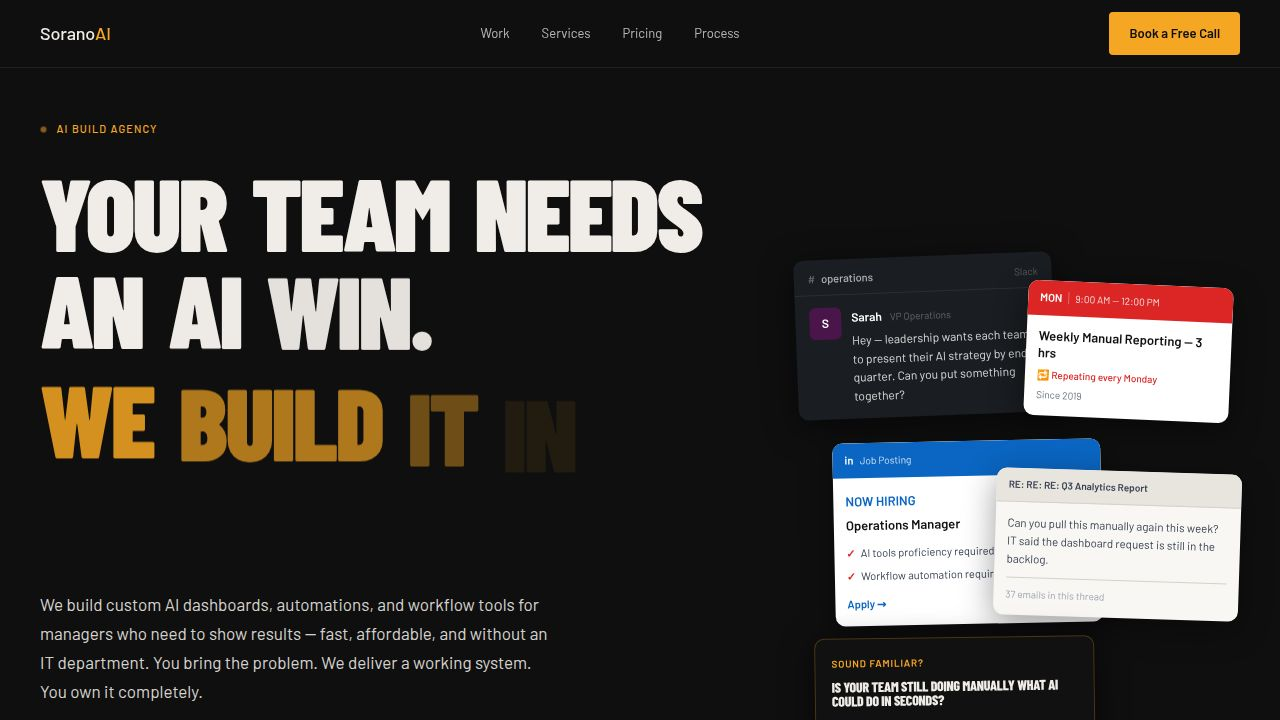
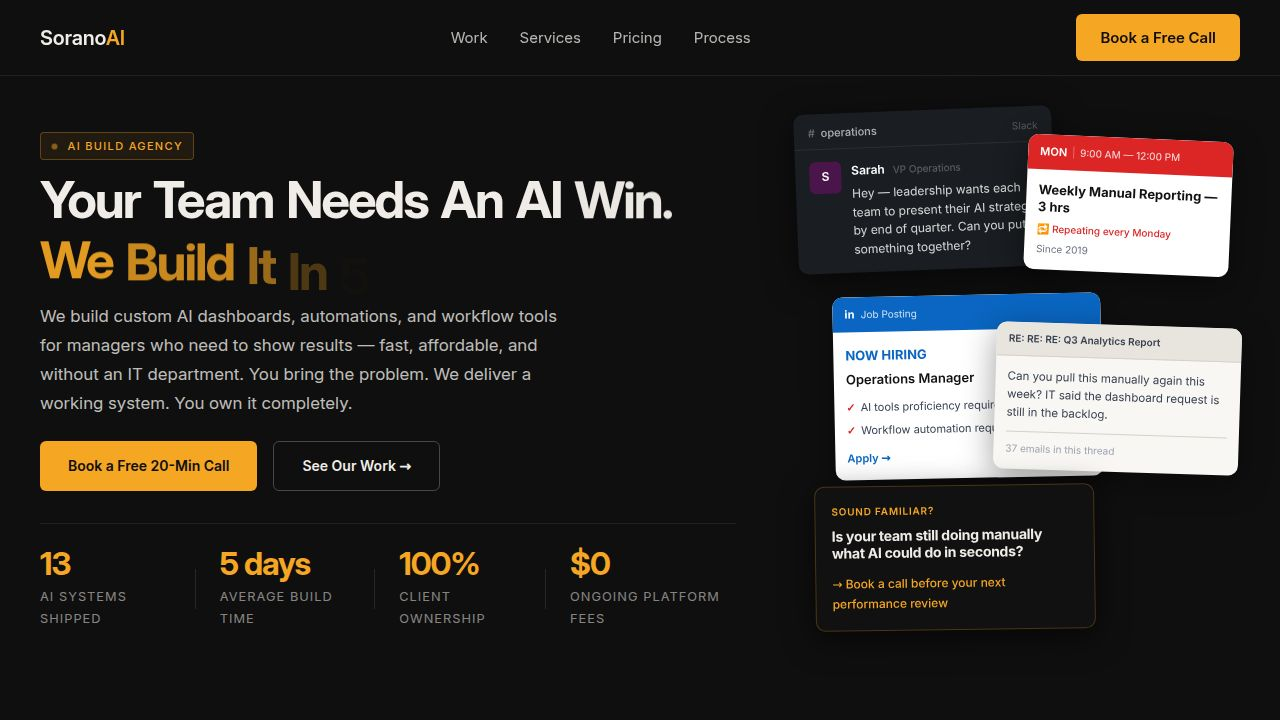
Improve website layout and visual appeal for a better user experience
Update CSS styles and layout properties in `index.css` and `LandingPage.tsx` to enhance visual design, adjust element sizing and spacing, and refine the overall user interface.

Replit-Commit-Author: Agent
Replit-Commit-Session-Id: de652645-57a0-4cd8-804e-505d59fe6991
Replit-Commit-Checkpoint-Type: full_checkpoint
Replit-Commit-Event-Id: 7cfe0205-f7c1-4278-8f01-84b549c9a138
Replit-Commit-Screenshot-Url: https://storage.googleapis.com/screenshot-production-us-central1/35139d9f-d9c6-44c9-8a53-76e9d92eb9ff/de652645-57a0-4cd8-804e-505d59fe6991/D1hxz7y
Replit-Helium-Checkpoint-Created: true

diff --git a/artifacts/sorano-ai/src/pages/LandingPage.tsx b/artifacts/sorano-ai/src/pages/LandingPage.tsx
@@ -36,7 +36,7 @@ function Nav() {
         backdropFilter: "blur(16px)",
         borderBottom: "1px solid rgba(255,255,255,0.08)",
         padding: "0 2.5rem",
-        height: "68px",
+        height: "76px",
         display: "flex",
         alignItems: "center",
         justifyContent: "space-between",
@@ -46,8 +46,8 @@ function Nav() {
         href="/"
         style={{
           fontFamily: "'Inter', sans-serif",
-          fontSize: "18px",
-          fontWeight: 500,
+          fontSize: "20px",
+          fontWeight: 600,
           textDecoration: "none",
           color: "#f0ede8",
           letterSpacing: "-0.01em",
@@ -70,7 +70,8 @@ function Nav() {
             href={`#${link.toLowerCase()}`}
             style={{
               fontFamily: "'Inter', sans-serif",
-              fontSize: "13px",
+              fontSize: "15px",
+              fontWeight: 400,
               color: "rgba(240,237,232,0.75)",
               textDecoration: "none",
               transition: "color 0.2s ease",
@@ -88,7 +89,7 @@ function Nav() {
         ))}
       </div>
 
-      <a href={CALENDLY_URL} target="_blank" rel="noreferrer" className="btn-primary" style={{ fontSize: "13px", padding: "10px 20px" }}>
+      <a href={CALENDLY_URL} target="_blank" rel="noreferrer" className="btn-primary" style={{ fontSize: "15px", padding: "11px 24px" }}>
         Book a Free Call
       </a>
 
@@ -125,13 +126,12 @@ function HeroSection() {
     <section
       id="hero"
       style={{
-        minHeight: "100vh",
         display: "flex",
-        alignItems: "center",
+        alignItems: "flex-start",
         background: "#0f0f0f",
         position: "relative",
         overflow: "hidden",
-        padding: "120px 2.5rem 5rem",
+        padding: "96px 2.5rem 4rem",
       }}
     >
       <div
@@ -147,37 +147,26 @@ function HeroSection() {
         }}
       >
         <div style={{ flex: "0 0 58%", maxWidth: "58%" }}>
-          <div
+          <div className="label-style"
             style={{
-              display: "flex",
+              display: "inline-flex",
               alignItems: "center",
               gap: "0.6rem",
-              marginBottom: "1.5rem",
+              marginBottom: "0.8rem",
             }}
           >
             <span className="pulse-dot" />
-            <span
-              style={{
-                fontFamily: "'Inter', sans-serif",
-                fontSize: "11px",
-                textTransform: "uppercase",
-                letterSpacing: "0.1em",
-                color: "#f5a623",
-                fontWeight: 500,
-              }}
-            >
-              AI Build Agency
-            </span>
+            <span>AI Build Agency</span>
           </div>
 
           <h1
             style={{
               fontFamily: "'Inter', sans-serif",
-              fontSize: "clamp(3.2rem, 6vw, 5.5rem)",
+              fontSize: "clamp(2.4rem, 4vw, 4rem)",
               fontWeight: 700,
               lineHeight: 1.05,
               letterSpacing: "-0.04em",
-              marginBottom: 0,
+              marginBottom: "1rem",
             }}
           >
             <div style={{ marginBottom: "0.1em" }}>
@@ -223,9 +212,10 @@ function HeroSection() {
             style={{
               fontFamily: "'Inter', sans-serif",
               fontSize: "17px",
-              color: "rgba(240,237,232,0.9)",
+              color: "rgba(240,237,232,0.8)",
               maxWidth: "520px",
-              marginTop: "1.75rem",
+              marginTop: "0",
+              marginBottom: "1.5rem",
               lineHeight: 1.7,
             }}
           >
@@ -239,7 +229,7 @@ function HeroSection() {
             style={{
               display: "flex",
               gap: "1rem",
-              marginTop: "2.5rem",
+              marginBottom: "2rem",
               flexWrap: "wrap",
             }}
           >
@@ -254,9 +244,9 @@ function HeroSection() {
           <div
             style={{
               display: "flex",
-              gap: "2rem",
-              marginTop: "3rem",
-              paddingTop: "1.75rem",
+              gap: "1.5rem",
+              marginTop: "1.5rem",
+              paddingTop: "1.5rem",
               borderTop: "1px solid rgba(255,255,255,0.08)",
               flexWrap: "nowrap",
             }}
@@ -266,10 +256,13 @@ function HeroSection() {
               { num: "5 days", label: "Average Build Time" },
               { num: "100%", label: "Client Ownership" },
               { num: "$0", label: "Ongoing Platform Fees" },
-            ].map((stat) => (
-              <div key={stat.label}>
-                <div className="stat-number">{stat.num}</div>
-                <div className="stat-label">{stat.label}</div>
+            ].map((stat, i) => (
+              <div key={stat.label} style={{ display: "flex", alignItems: "center", gap: "1.5rem" }}>
+                <div>
+                  <div className="stat-number">{stat.num}</div>
+                  <div className="stat-label">{stat.label}</div>
+                </div>
+                {i < 3 && <div style={{ width: "1px", height: "40px", background: "rgba(255,255,255,0.1)" }} />}
               </div>
             ))}
           </div>
@@ -428,20 +421,22 @@ function MarqueeBar() {
 
   const content = items.map((item, i) => (
     <span key={i} style={{ display: "inline-flex", alignItems: "center", gap: "1.5rem", whiteSpace: "nowrap" }}>
-      <span style={{ color: "rgba(245,166,35,0.88)", fontFamily: "'Inter', sans-serif", fontSize: "13px" }}>
+      <span style={{ color: "rgba(240,237,232,0.65)", fontFamily: "'Inter', sans-serif", fontWeight: 500, fontSize: "13px" }}>
         {item}
       </span>
-      <span style={{ color: "#f5a623", fontSize: "10px" }}>·</span>
+      <span style={{ color: "rgba(240,237,232,0.3)", fontSize: "10px" }}>·</span>
     </span>
   ));
 
   return (
     <div
       style={{
-        background: "rgba(245,166,35,0.06)",
-        borderTop: "1px solid rgba(245,166,35,0.15)",
-        borderBottom: "1px solid rgba(245,166,35,0.15)",
-        padding: "14px 0",
+        background: "#141414",
+        borderTop: "1px solid rgba(255,255,255,0.05)",
+        borderBottom: "1px solid rgba(255,255,255,0.05)",
+        height: "48px",
+        display: "flex",
+        alignItems: "center",
         overflow: "hidden",
       }}
     >
@@ -515,7 +510,7 @@ function ProblemSection() {
             style={{
               fontFamily: "'Inter', sans-serif",
               fontSize: "15px",
-              color: "rgba(240,237,232,0.88)",
+              color: "rgba(240,237,232,0.8)",
               maxWidth: "520px",
               marginTop: "1.25rem",
               lineHeight: 1.7,
@@ -541,7 +536,7 @@ function ProblemSection() {
               key={i}
               className="glass-card reveal"
               style={{
-                padding: "2rem",
+                padding: "1.75rem",
                 borderLeft: "2px solid #f5a623",
                 borderRadius: "0",
                 animationDelay: `${i * 80}ms`,
@@ -563,7 +558,7 @@ function ProblemSection() {
                 style={{
                   fontFamily: "'Inter', sans-serif",
                   fontSize: "14px",
-                  color: "rgba(240,237,232,0.88)",
+                  color: "rgba(240,237,232,0.8)",
                   lineHeight: 1.65,
                 }}
               >
@@ -864,7 +859,7 @@ function WorkSection() {
             style={{
               fontFamily: "'Inter', sans-serif",
               fontSize: "15px",
-              color: "rgba(240,237,232,0.88)",
+              color: "rgba(240,237,232,0.8)",
               maxWidth: "520px",
               marginTop: "1.25rem",
               lineHeight: 1.7,
@@ -929,7 +924,7 @@ function WorkSection() {
                 style={{
                   fontFamily: "'Inter', sans-serif",
                   fontSize: "13px",
-                  color: "rgba(240,237,232,0.88)",
+                  color: "rgba(240,237,232,0.8)",
                   lineHeight: 1.65,
                 }}
               >
@@ -1278,7 +1273,7 @@ function ProcessSection() {
                     fontFamily: "'Inter', sans-serif",
                     fontSize: "3rem",
                     fontWeight: 800,
-                    color: "#f5a623",
+                    color: "rgba(0,0,0,0.07)",
                     lineHeight: 1,
                     marginBottom: "1rem",
                   }}
@@ -1408,7 +1403,7 @@ function WhoSection() {
               key={i}
               className="glass-card reveal"
               style={{
-                padding: "2rem",
+                padding: "1.75rem",
                 transitionDelay: `${i * 80}ms`,
               }}
             >
@@ -1428,7 +1423,7 @@ function WhoSection() {
                 style={{
                   fontFamily: "'Inter', sans-serif",
                   fontSize: "14px",
-                  color: "rgba(240,237,232,0.88)",
+                  color: "rgba(240,237,232,0.8)",
                   lineHeight: 1.65,
                 }}
               >
@@ -1487,7 +1482,7 @@ function FinalCTA() {
           style={{
             fontFamily: "'Inter', sans-serif",
             fontSize: "16px",
-            color: "rgba(240,237,232,0.88)",
+            color: "rgba(240,237,232,0.8)",
             maxWidth: "500px",
             margin: "1.25rem auto 0",
             lineHeight: 1.7,
@@ -1538,7 +1533,7 @@ function Footer() {
   return (
     <footer
       style={{
-        background: "#080808",
+        background: "#0a0a0a",
         padding: "2rem 2.5rem",
         display: "flex",
         justifyContent: "space-between",
@@ -1594,8 +1589,9 @@ function Footer() {
       <div
         style={{
           fontFamily: "'Inter', sans-serif",
-          fontSize: "12px",
-          color: "rgba(240,237,232,0.6)",
+          fontSize: "0.875rem",
+          fontWeight: 400,
+          color: "rgba(240,237,232,0.45)",
         }}
       >
         © 2026 Sorano AI. All rights reserved.

diff --git a/artifacts/sorano-ai/src/index.css b/artifacts/sorano-ai/src/index.css
@@ -88,8 +88,13 @@
   font-size: 11px;
   font-weight: 500;
   text-transform: uppercase;
-  letter-spacing: 0.1em;
-  color: rgba(240, 237, 232, 0.72);
+  letter-spacing: 0.12em;
+  color: #f5a623;
+  border: 1px solid rgba(245, 166, 35, 0.3);
+  background: rgba(245, 166, 35, 0.08);
+  padding: 4px 10px;
+  border-radius: 4px;
+  display: inline-block;
 }
 
 /* Glass card */
@@ -97,11 +102,13 @@
   background: rgba(255, 255, 255, 0.04);
   border: 1px solid rgba(255, 255, 255, 0.08);
   border-radius: 12px;
-  transition: border-color 0.2s ease;
+  transition: all 0.2s ease;
 }
 
 .glass-card:hover {
-  border-color: rgba(245, 166, 35, 0.3);
+  background: rgba(255, 255, 255, 0.06);
+  border-color: rgba(245, 166, 35, 0.2);
+  transform: translateY(-2px);
 }
 
 /* Primary button */
@@ -112,8 +119,8 @@
   background-color: #f5a623;
   color: #0f0f0f;
   border: none;
-  border-radius: 4px;
-  padding: 14px 28px;
+  border-radius: 6px;
+  padding: 12px 28px;
   font-family: 'Inter', sans-serif;
   font-weight: 600;
   font-size: 14px;
@@ -133,21 +140,22 @@
   align-items: center;
   justify-content: center;
   background: transparent;
-  color: #f5a623;
-  border: 1px solid #f5a623;
-  border-radius: 4px;
-  padding: 14px 28px;
+  color: #f0ede8;
+  border: 1px solid rgba(240, 237, 232, 0.25);
+  border-radius: 6px;
+  padding: 12px 28px;
   font-family: 'Inter', sans-serif;
   font-weight: 600;
   font-size: 14px;
   cursor: pointer;
   text-decoration: none;
-  transition: background-color 0.2s ease;
+  transition: border-color 0.2s ease;
   white-space: nowrap;
 }
 
 .btn-secondary:hover {
-  background-color: rgba(245, 166, 35, 0.08);
+  border-color: rgba(240, 237, 232, 0.5);
+  background: transparent;
 }
 
 /* Pulse animation for dot */
@@ -174,6 +182,8 @@
 
 .marquee-track {
   display: flex;
+  align-items: center;
+  height: 48px;
   animation: marquee-scroll 30s linear infinite;
   width: max-content;
 }
@@ -230,16 +240,16 @@
   font-size: 2rem;
   color: #f5a623;
   line-height: 1.0;
-  font-weight: 800;
-  letter-spacing: -0.04em;
+  font-weight: 700;
+  letter-spacing: -0.03em;
 }
 
 .stat-label {
   font-family: 'Inter', sans-serif;
-  font-size: 11px;
+  font-size: 0.8rem;
   text-transform: uppercase;
-  letter-spacing: 0.1em;
-  color: rgba(240, 237, 232, 0.72);
+  letter-spacing: 0.08em;
+  color: rgba(240, 237, 232, 0.55);
   margin-top: 0.35rem;
 }
 